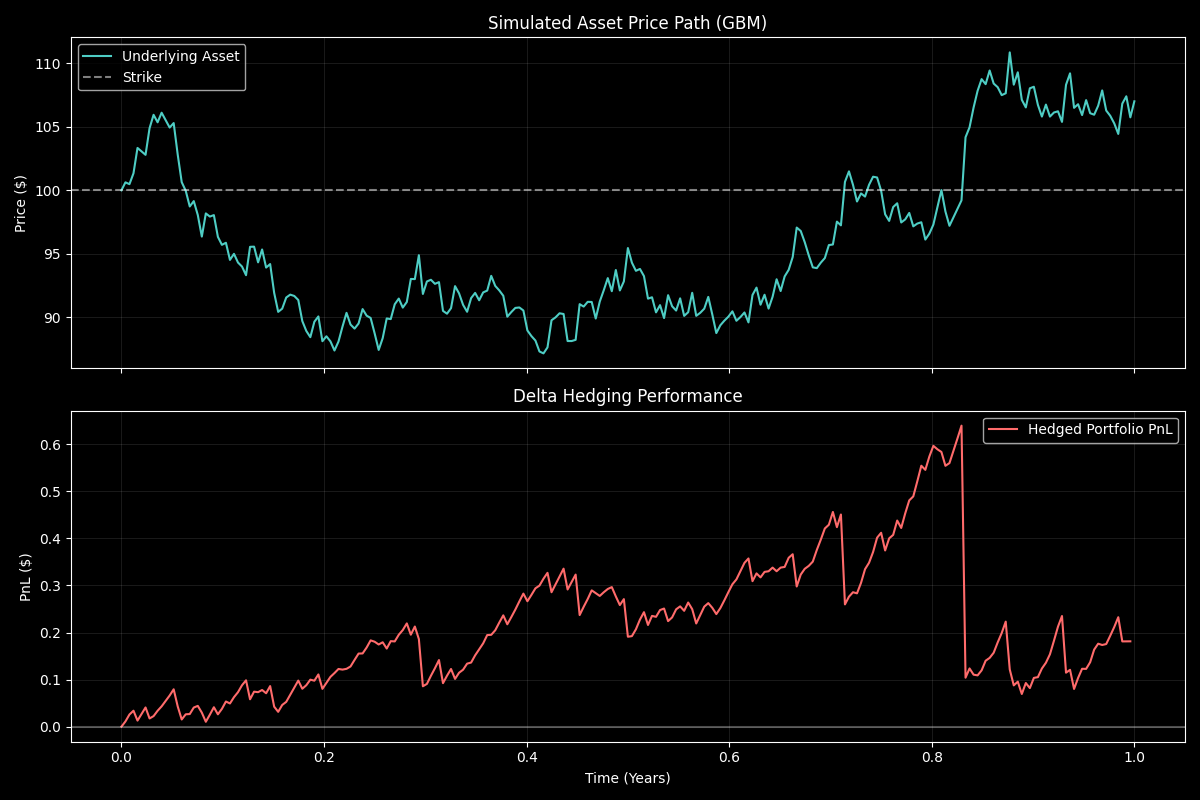
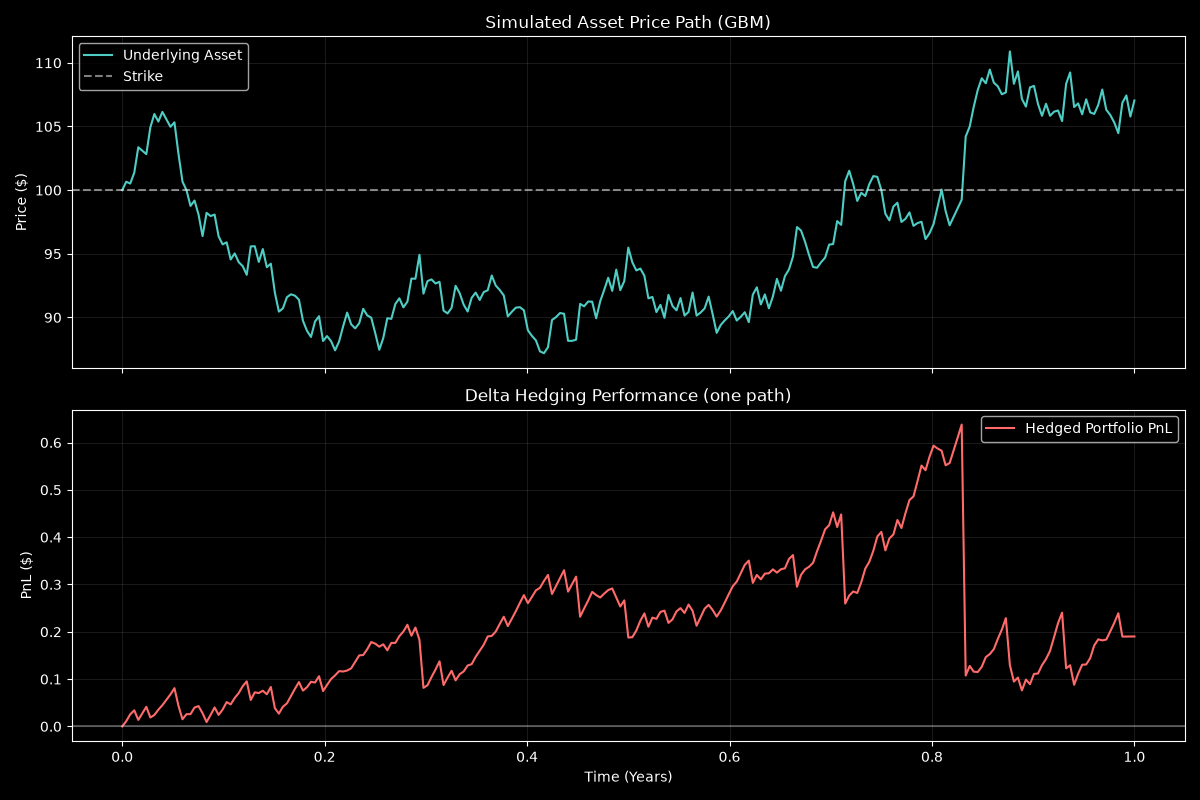
Regenerate figure with settlement; record the two measured numbers; ignore .venv
hedging_results.png is now the output of the settled-at-expiry script (run
here on Python 3.12 with unpinned numpy 2.5 / scipy 1.18). README states the
two numbers that run prints (terminal P&L $0.19 on a $10.45 premium; $0.14
std of the single path's P&L series) and what they do and do not measure.
Add .gitignore so the local virtual environment is never committed.

diff --git a/README.md b/README.md
@@ -55,9 +55,11 @@ No unhedged (naked) benchmark, transaction costs, rebalancing-frequency
 sweep or vol-misspecification study is implemented here; all of those are in
 the neural-options-lab hedging module linked above.
 
-`hedging_results.png` was produced by the original version of the script,
-which stopped one step before expiry; rerun `python options_hedging.py` to
-regenerate it with settlement included.
+On the committed seed-42 path the script prints a terminal hedging P&L of
+**$0.19** after settlement (against a $10.45 premium) and a **$0.14** standard
+deviation of the P&L time series along that path; `hedging_results.png` is the
+figure from that run, settlement step included. These two numbers describe one
+realisation and nothing else.
 
 ## Running
 
